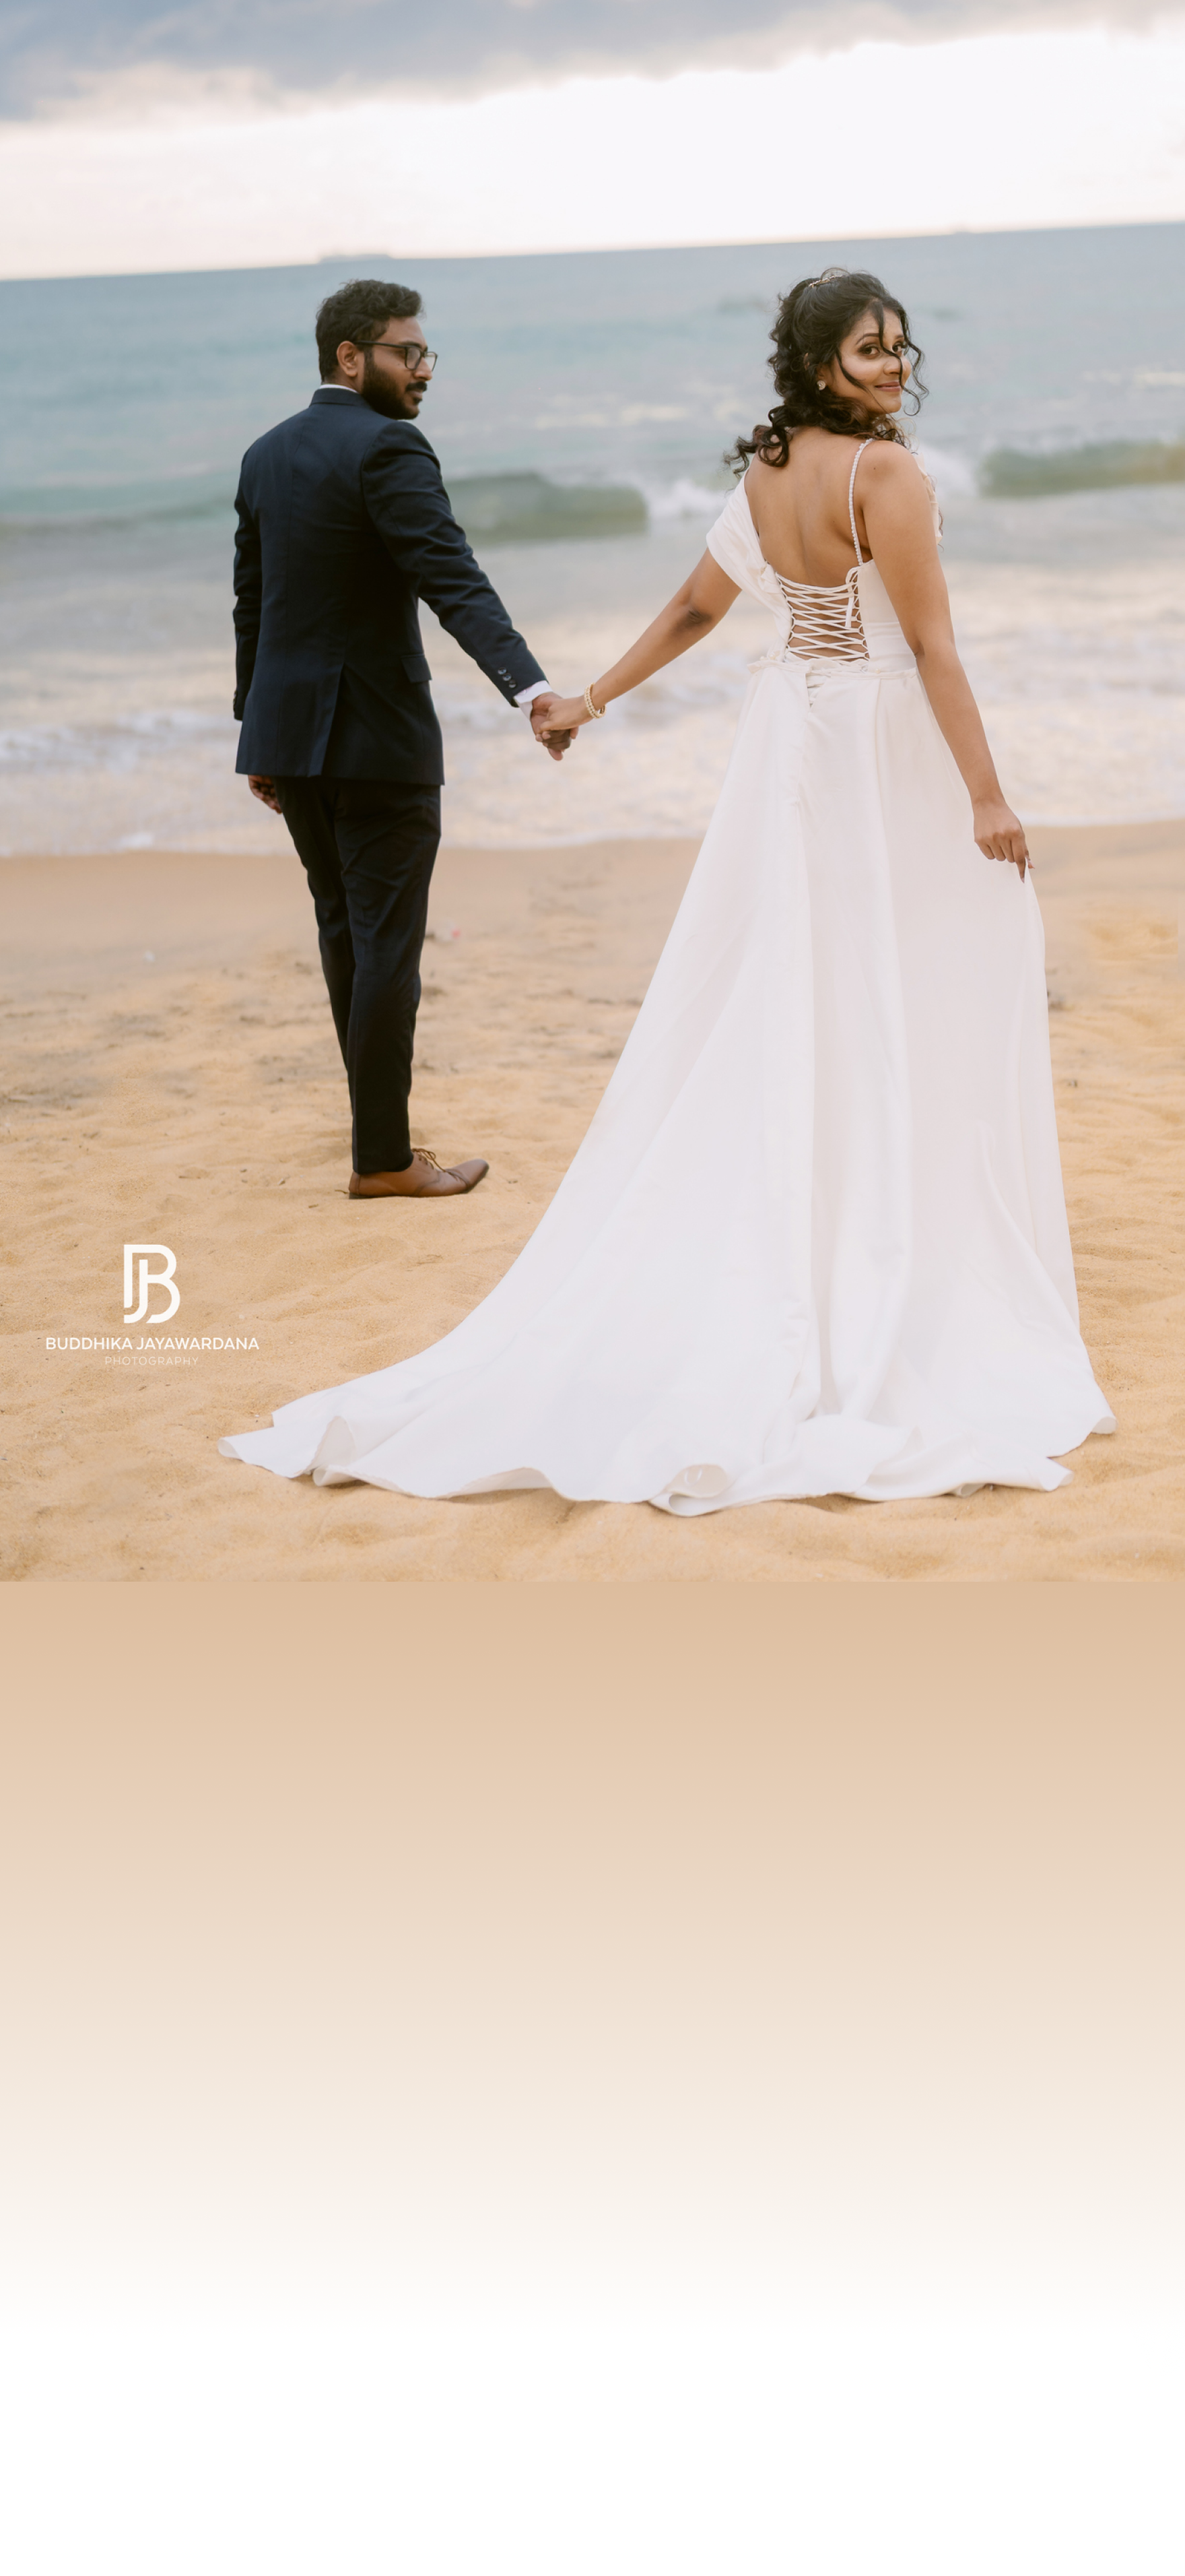
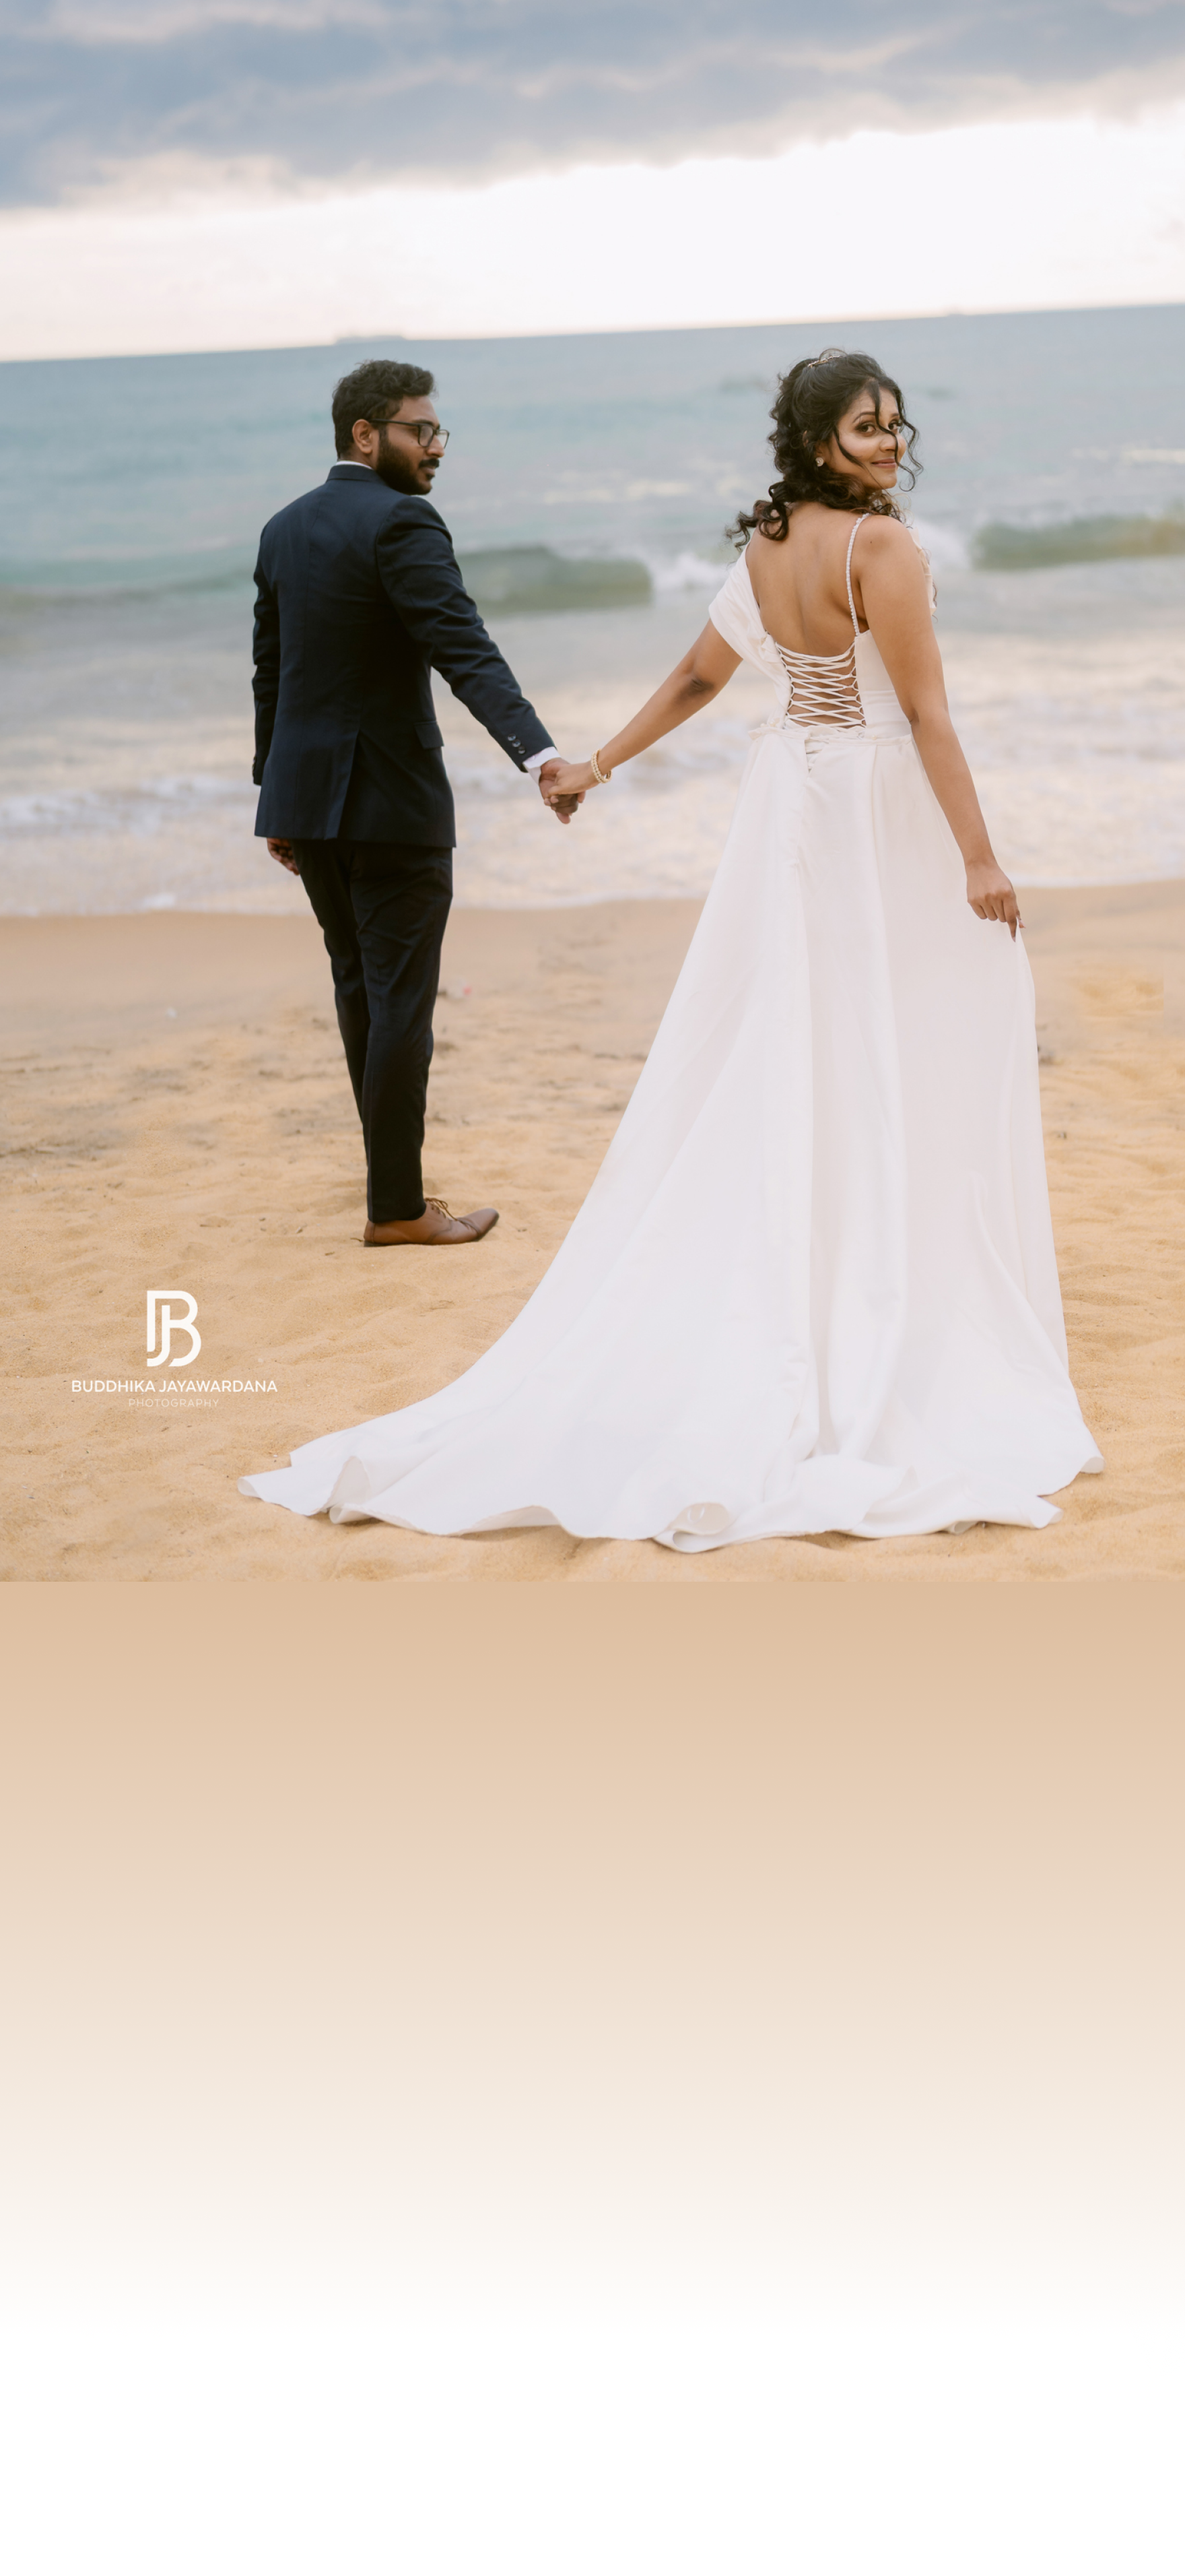
invitation pag changes

Changed region(s): [[0.0, 0.0, 1.0, 0.6224], [0.0, 0.4046, 0.0938, 0.4668], [0.2188, 0.4046, 0.25, 0.4357]]

diff --git a/src/components/sections/Invitation.tsx b/src/components/sections/Invitation.tsx
@@ -43,7 +43,7 @@ export function Invitation() {
         alignItems: 'center',
         
         justifyContent: 'flex-end',
-        paddingBottom: '64px',
+        paddingBottom: '120px',
         paddingTop: 0,
         position: 'relative',
         overflow: 'hidden',
